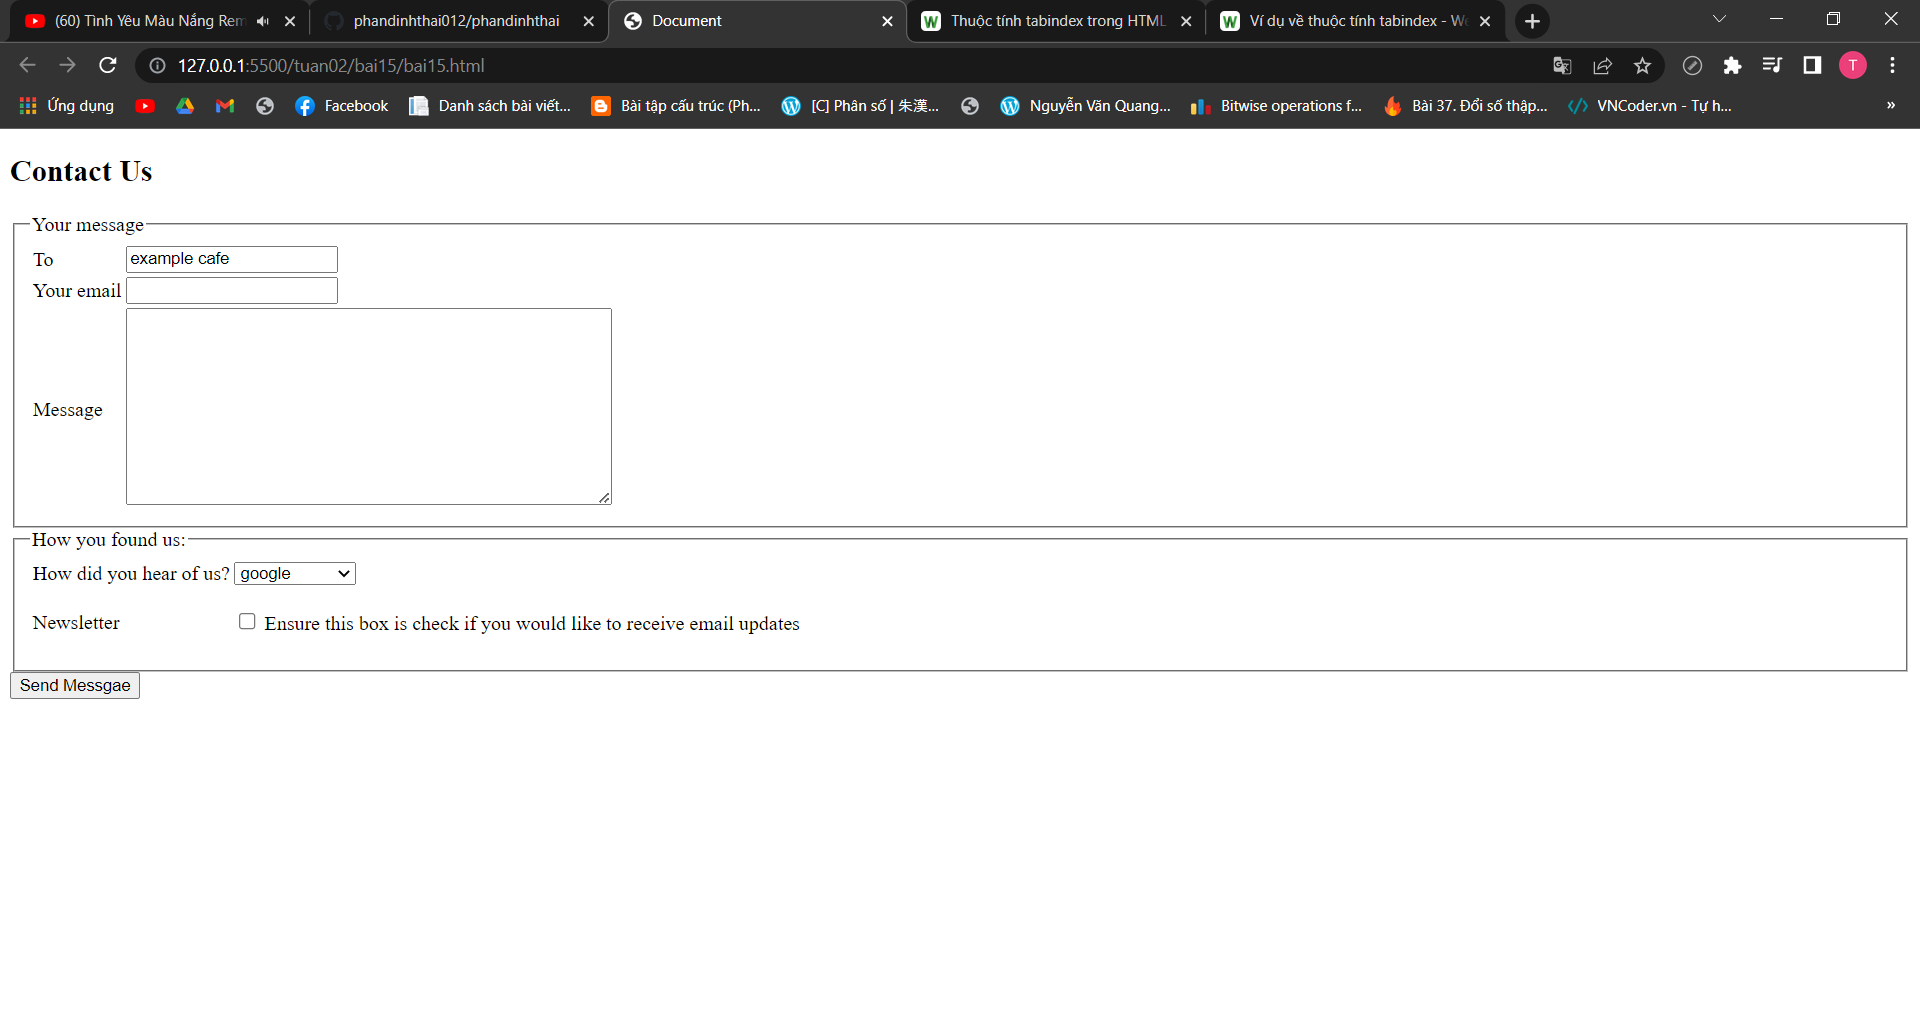
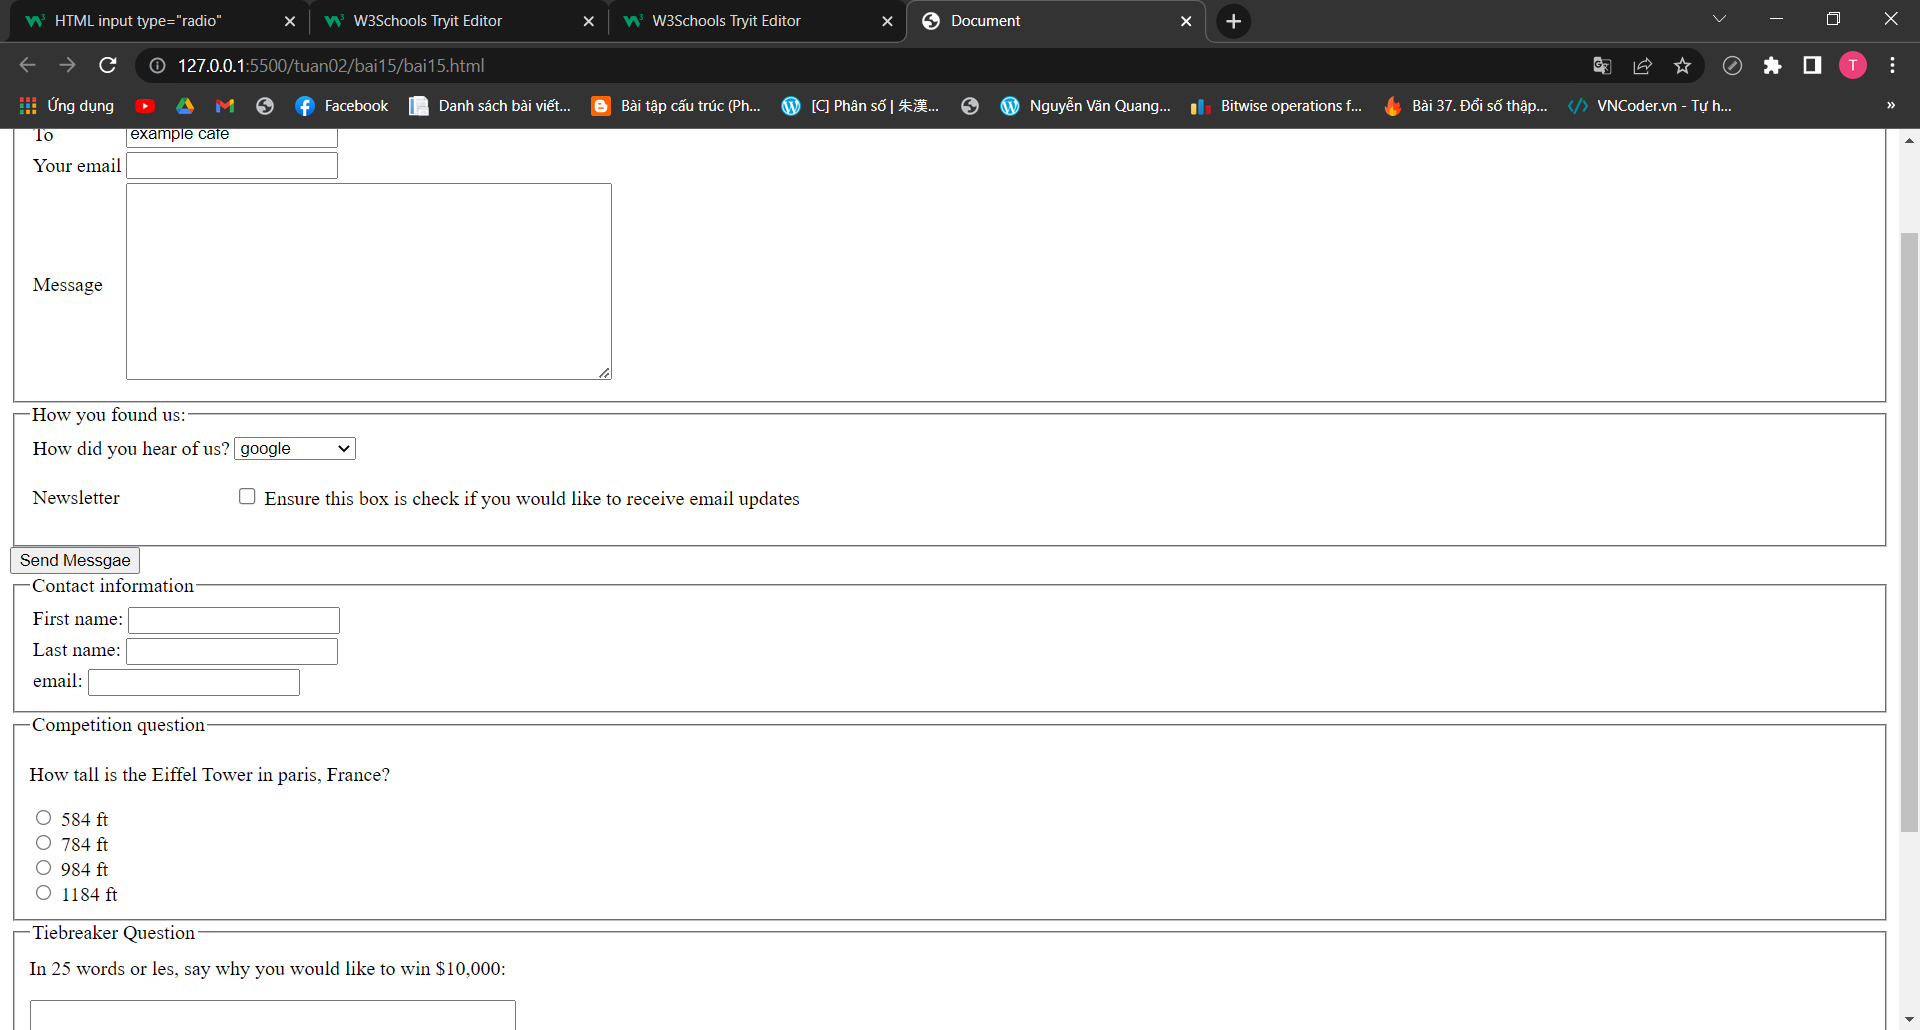
bai 15

diff --git a/tuan02/bai15/bai15.html b/tuan02/bai15/bai15.html
@@ -47,6 +47,48 @@
                 </table>
             </fieldset>
             <input type="button" value="Send Messgae">
+            <fieldset>
+                <legend>Contact information</legend>
+                    <table>
+                        <tr>
+                            <td>
+                                <label for="firstName">First name:</label>
+                            <input type="text" name="FirstName" id="firstName" size="20">
+                            </td>
+                            
+                        </tr>
+                        <tr>
+                            <td>
+                                <label for="lastName">Last name:</label>
+                            <input type="text" name="lastName" id="lastName" size="20">
+                            </td>
+                            
+                        </tr>
+                        <tr>
+                            <td>
+                                <label for="">email:</label>
+                            <input type="text" name="email" id="email" size="20">
+                            </td>
+                        </tr>
+                    </table>
+            </fieldset>
+            <fieldset>
+                <legend>Competition question</legend>
+                <p>How tall is the Eiffel Tower in paris, France?</p>
+                <input type="radio" id="tall1" value="584"> <label for="tall1">584 ft</label> <br>
+                <input type="radio" id="tall2" value="784"> <label for="tall2">784 ft</label> <br>
+                <input type="radio" id="tall3" value="984"> <label for="tall3">984 ft</label> <br>
+                <input type="radio" id="tall4" value="1184"> <label for="tall4">1184 ft</label>
+            </fieldset>
+            <fieldset>
+                <legend>Tiebreaker Question</legend>
+                <p style="margin-top: 5px;">In 25 words or les, say why you would like to win $10,000:</p>
+                <textarea name="txtBo" id="txtBo" cols="50" rows="10"></textarea>
+            </fieldset>
+            <fieldset>
+                <legend>Enter competition</legend>
+                <input type="submit" value="Enter Competition">
+            </fieldset>
         </form>
     </div>
 </body>
